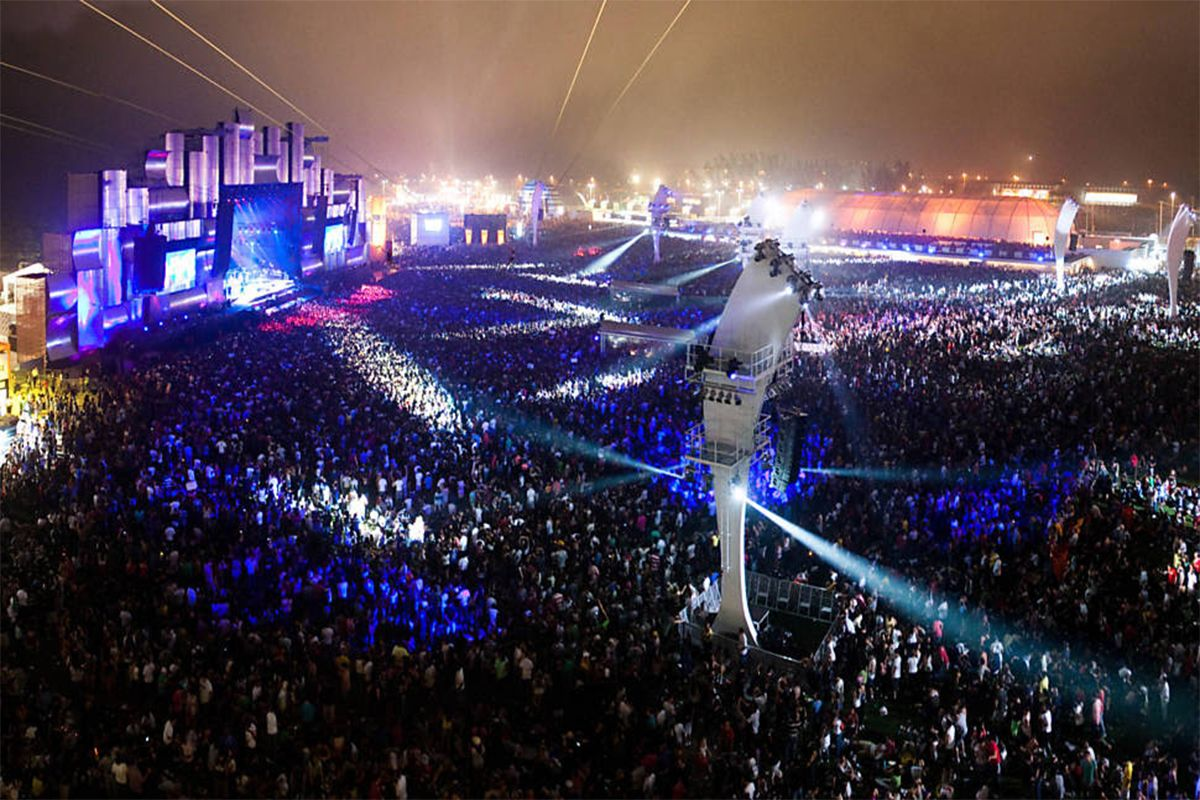
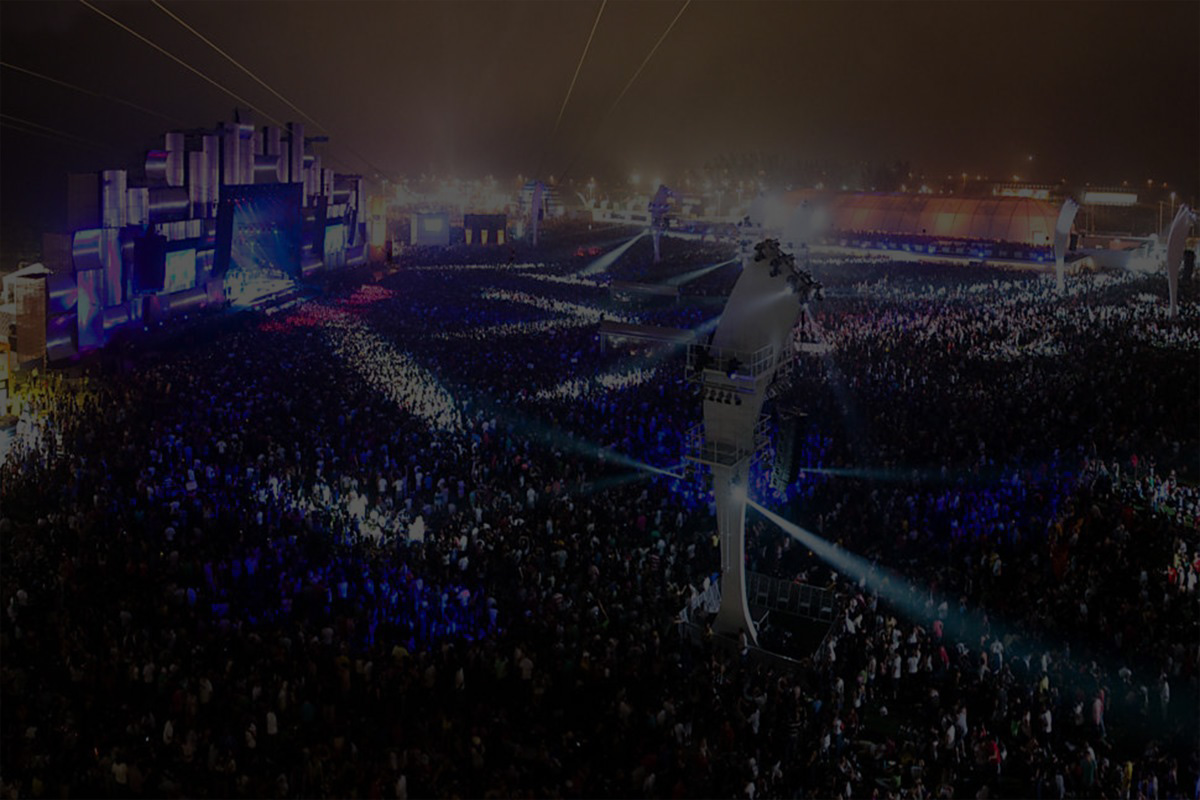
alteração de design

diff --git a/assets/fotos/css/style.css b/assets/fotos/css/style.css
@@ -1,9 +1,9 @@
 .centro{
     background: #000000;
-    background:   linear-gradient(#000a66, #000000, #000a66);
-    background:   -moz-linear-gradient(#000a66, #000000, #000a66);
-    background:   -o-linear-gradient(#000a66, #000000, #000a66);
-    background:   -webkit-linear-gradient(#000a66, #000000, #000a66);
+    background:   linear-gradient(#010026, #000000, #010026);
+    background:   -moz-linear-gradient(#010026, #000000, #010026);
+    background:   -o-linear-gradient(#010026, #000000, #010026);
+    background:   -webkit-linear-gradient(#010026, #000000, #010026);
     padding-bottom: 20px;
 }
 
@@ -16,7 +16,7 @@
 }
 
 .fotos p{
-    background-color: #000000;
+    background-color: #000331;
     width: 320px;
     margin: auto;
     color: #ffffff;
@@ -26,4 +26,12 @@
     margin-top: 20px;
     width: 320px;
     height: 200px;
+    cursor: pointer;
+}
+
+.img-thumbnail{
+    border-bottom-left-radius: 0px;
+    border-bottom-right-radius: 0px;
+    background-color: #000331;
+    border-color: #000331;
 }

diff --git a/assets/fotos/css/modal_fotos.css b/assets/fotos/css/modal_fotos.css
@@ -1,22 +1,38 @@
 .modal_fotos{
-    position: absolute;
+    position: fixed;
     top: 0;
-    background: rgba(26, 26, 26, 0.8);
+    background: rgba(0, 0, 0, 0.8);
     width: 100%;
     height: 100%;
     display: none;
 }
 
+/* The Close Button */
+.close {
+    position: absolute;
+    top: 15px;
+    right: 35px;
+    color: #f1f1f1;
+    font-size: 40px;
+    font-weight: bold;
+    transition: 0.3s;
+}
+
+.close:hover,
+.close:focus {
+    color: #bbb;
+    text-decoration: none;
+    cursor: pointer;
+}
+
 .box_image{
     margin: auto;
-    margin-top: 10%;
-    background: rgb(26, 26, 26);
-    width: 50%;
-    height: 58%;
+    margin-top: 7%;
+    width: 100%;
+    max-width: 800px;
+    border: 1px solid white;
 }
 
 .img{
     width: 100%;
-    max-width: 1000px;
-    
 }

diff --git a/assets/index/css/style.css b/assets/index/css/style.css
@@ -1,9 +1,13 @@
+a{
+    text-decoration: none;
+}
+
 .centro{
     background: #000000;
-    background:   linear-gradient(#000a66, #000000, #000a66);
-    background:   -moz-linear-gradient(#000a66, #000000, #000a66);
-    background:   -o-linear-gradient(#000a66, #000000, #000a66);
-    background:   -webkit-linear-gradient(#000a66, #000000, #000a66);
+    background:   linear-gradient(#010026, #000000, #010026);
+    background:   -moz-linear-gradient(#010026, #000000, #010026);
+    background:   -o-linear-gradient(#010026, #000000, #010026);
+    background:   -webkit-linear-gradient(#010026, #000000, #010026);
 }
 
 .centroInterior{
@@ -39,7 +43,7 @@
 #video:hover,
 #musica:hover{
     background-size: 110% 110%;
-    transition: .5s;
+    transition: .3s;
 }
 
 #fotos{

diff --git a/assets/musicas/css/style.css b/assets/musicas/css/style.css
@@ -1,9 +1,9 @@
 .centro{
     background: #000000;
-    background:   linear-gradient(#000a66, #000000, #000a66);
-    background:   -moz-linear-gradient(#000a66, #000000, #000a66);
-    background:   -o-linear-gradient(#000a66, #000000, #000a66);
-    background:   -webkit-linear-gradient(#000a66, #000000, #000a66);
+    background:   linear-gradient(#010026, #000000, #010026);
+    background:   -moz-linear-gradient(#010026, #000000, #010026);
+    background:   -o-linear-gradient(#010026, #000000, #010026);
+    background:   -webkit-linear-gradient(#010026, #000000, #010026);
     padding-bottom: 20px;
 }
 

diff --git a/assets/template/css/style.css b/assets/template/css/style.css
@@ -1,9 +1,7 @@
 body{
     margin: 0;
     padding: 0;
-}
-
-a{
+    font-family: Verdana, Geneva, Tahoma, sans-serif;
     text-decoration: none;
 }
 

diff --git a/application/views/fotos.php b/application/views/fotos.php
@@ -1,6 +1,6 @@
 <script src="../assets/library/jquery.min.js"></script>
 <script src="../assets/library/bootstrap.min.js"></script>
-<link rel="stylesheet" href="../assets/library/bootstrap.min.css">
+<link rel="stylesheet" href="<?php echo base_url('assets/library/bootstrap.min.css')?>">
 <link rel="stylesheet" href="<?php echo base_url('assets/fotos/css/style.css')?>">
 <link rel="stylesheet" href="<?php echo base_url('assets/fotos/css/modal_fotos.css')?>">
 <article>
@@ -8,9 +8,9 @@
         <p class="titulo">FOTOS</p>
         <div class="container">
             <div class="col-sm-12">
-                <?php for($i = 1 ; $i <= 6; $i++):?>
+                <?php for($i = 1 ; $i <= 9; $i++):?>
                     <div class="fotos col-sm-4 text-center">
-                        <img class="myImg" src="<?php echo base_url('/assets/fotos/css/'). $i .'.jpg'?>">
+                        <img class="myImg img-thumbnail" src="<?php echo base_url('/assets/fotos/css/'). $i .'.jpg'?>">
                         <p>Lorem Ipsum é simplesmente</p>
                     </div>
                 <?php endfor ?>
@@ -19,6 +19,7 @@
     </div>
 
 <div class='modal_fotos'>
+    <span class="close">&times;</span>
     <div class='box_image'>
         <img src="" alt="" class='img'>
     </div>
@@ -32,14 +33,16 @@ $(document).ready(function(){
         $('.modal_fotos').fadeIn();
         $('.img').attr('src', $(this).attr('src'));
     })
-
     $('.modal_fotos').click(function() {
         $(this).fadeOut();
         
     })
+    $('.close').click(function() {
+        $('.modal_fotos').fadeOut();
+        
+    })
 
 });
-    
 
 </script>
 </article>
